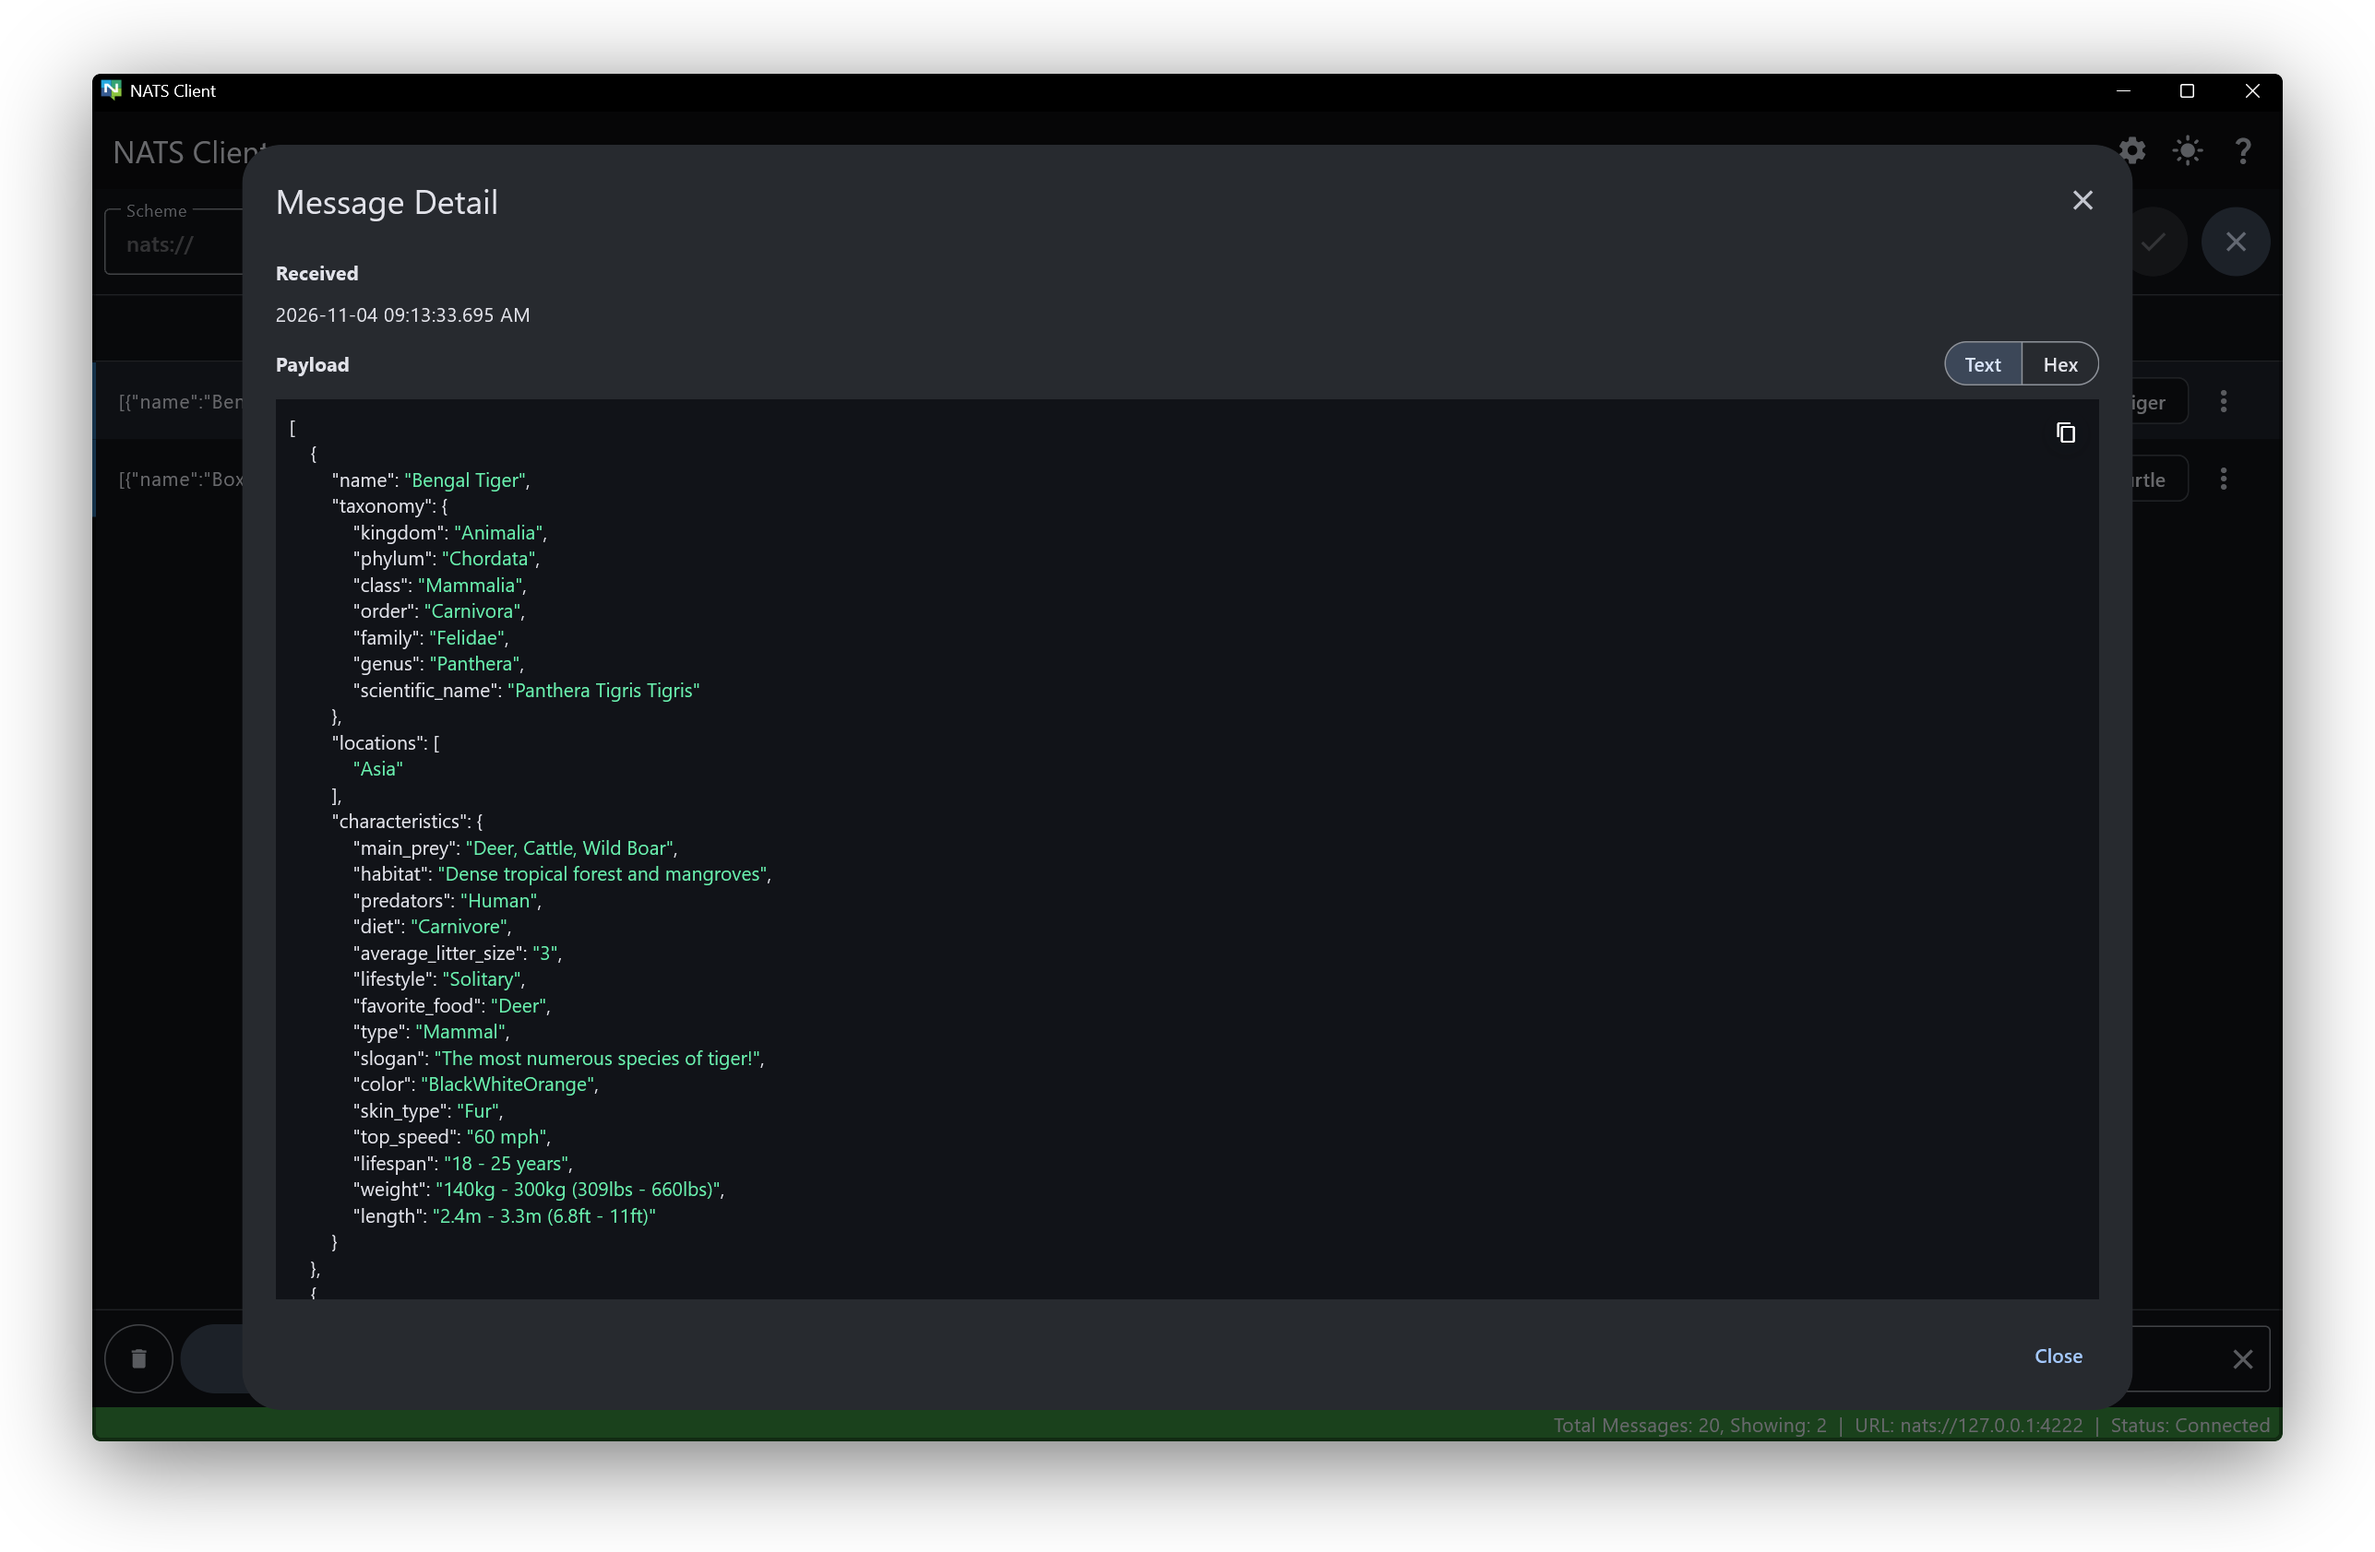
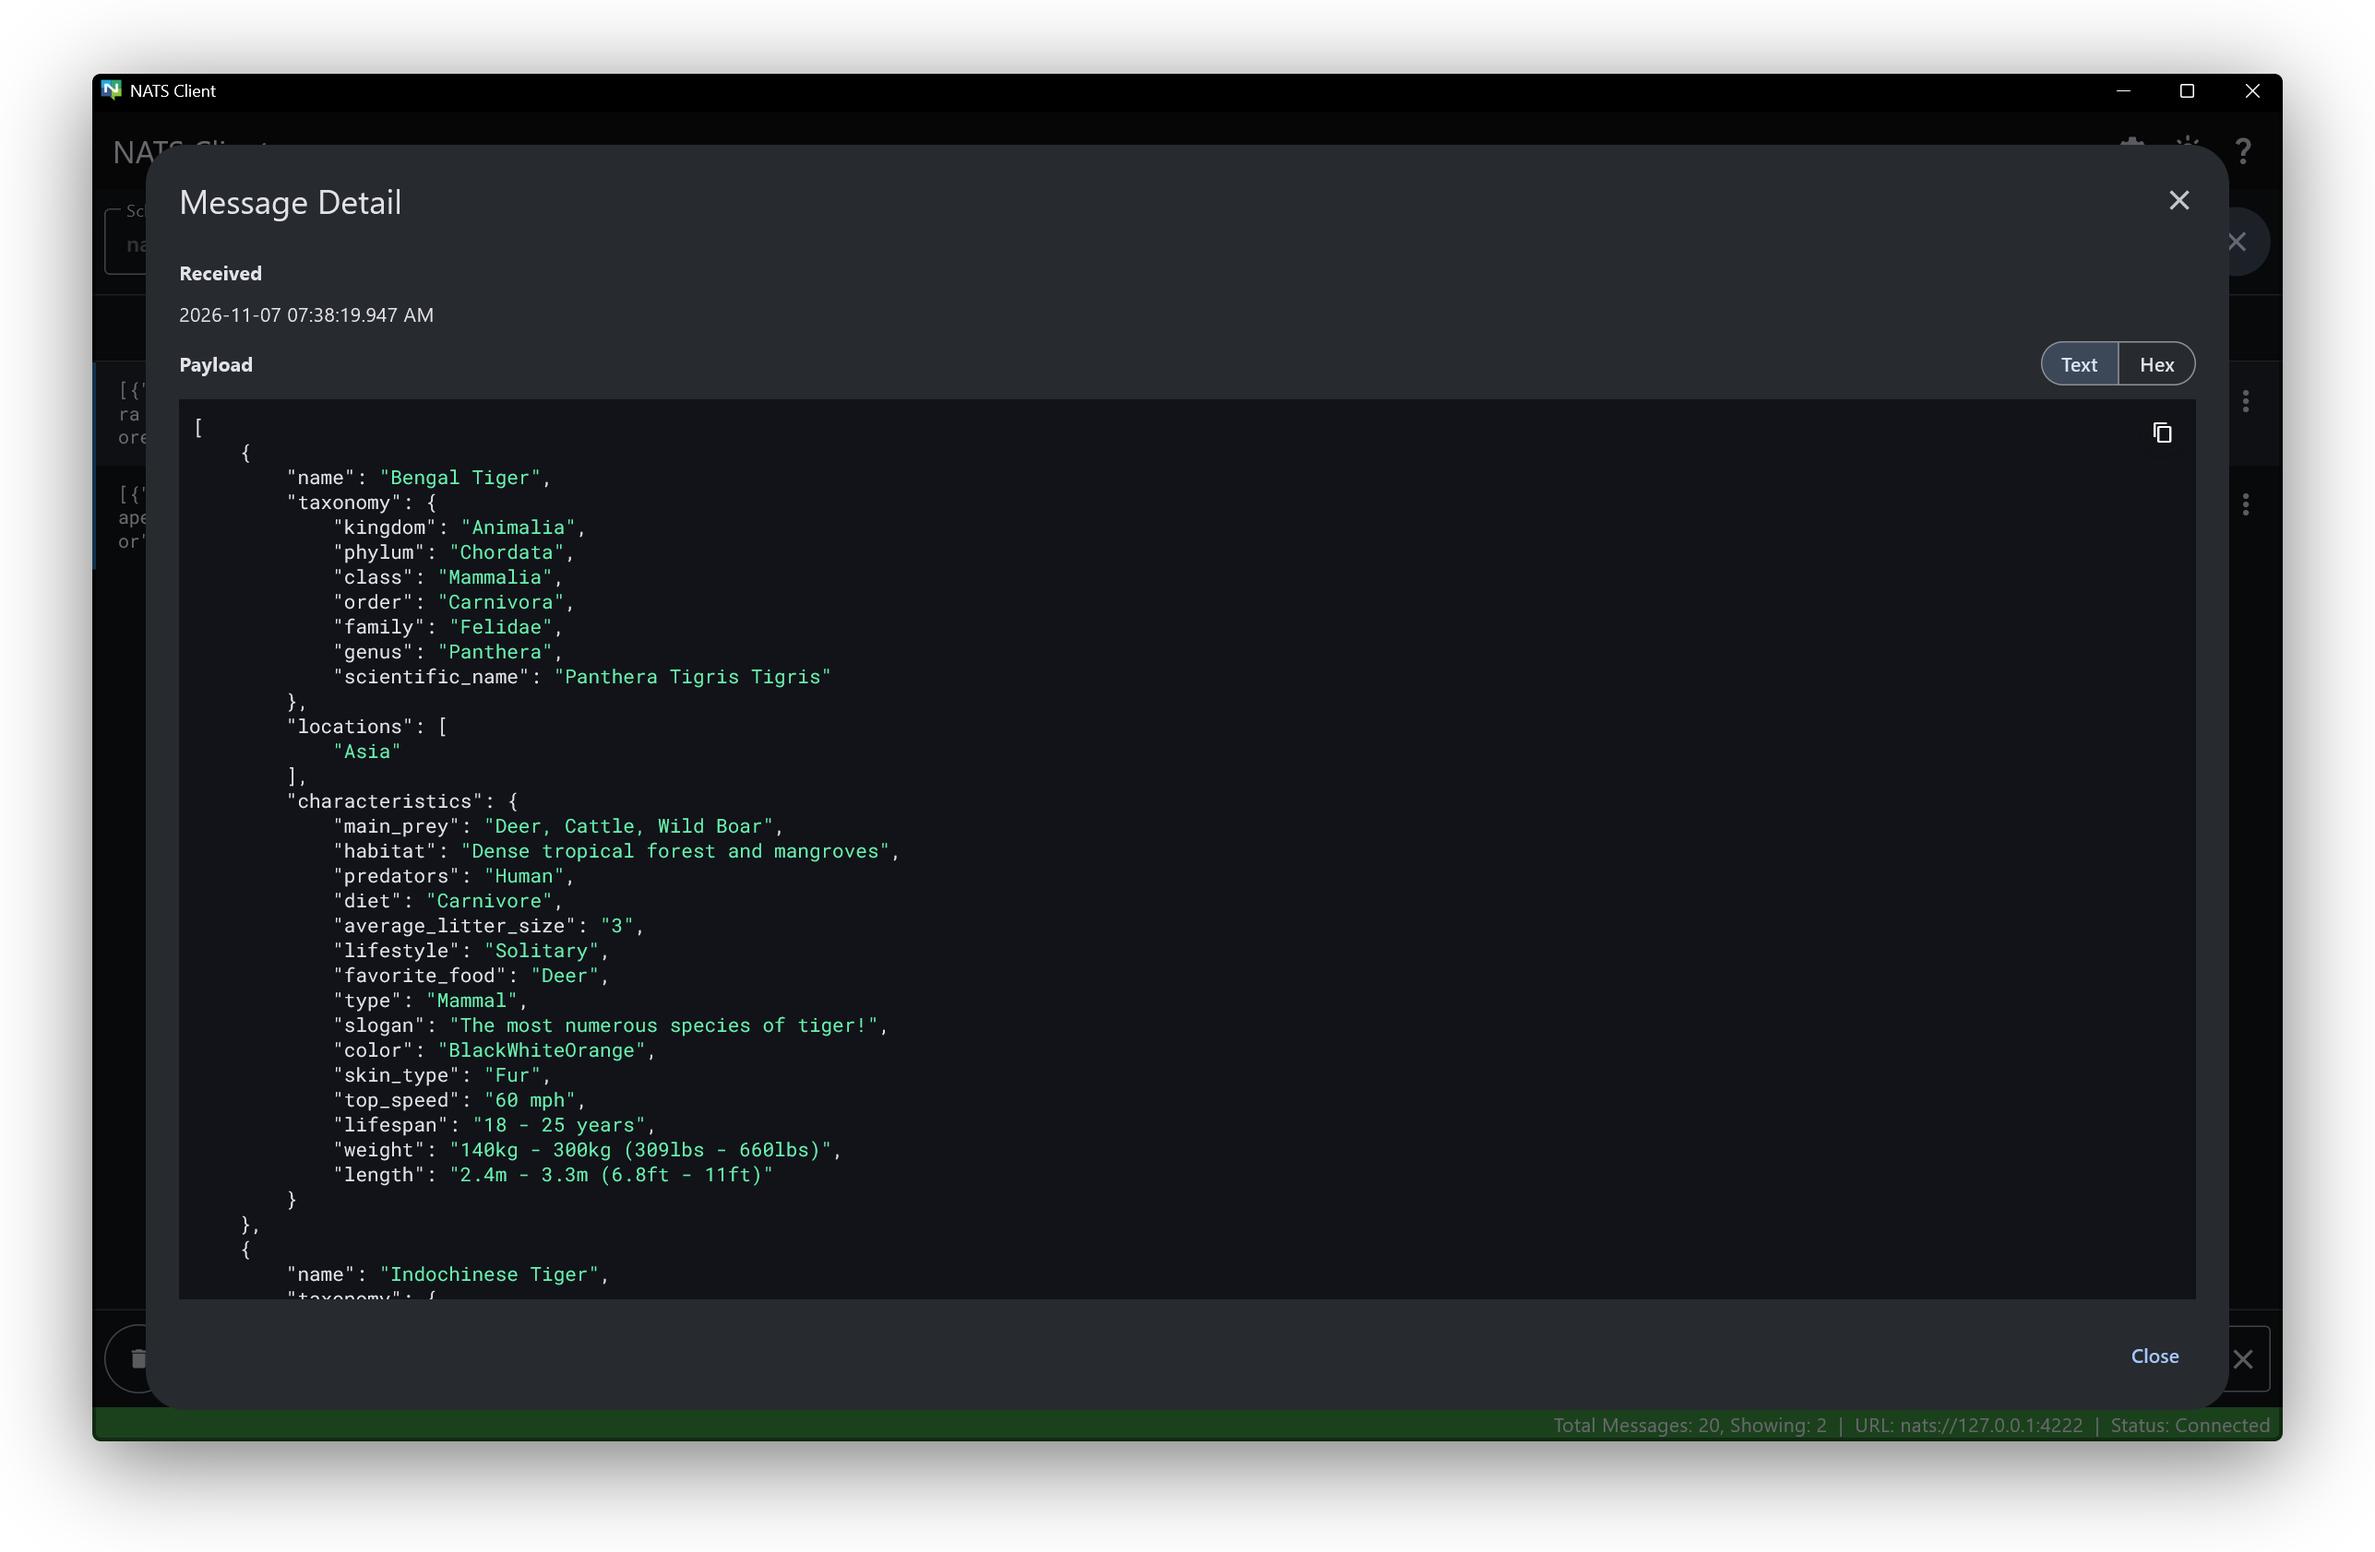
Default message font size to 13 and refresh README screenshots
Roboto Mono reads larger than proportional text at the same size, so the
default message font size is now 13 (saved sizes are kept). Browse Messages
uses the same default. The README screenshots are retaken with the new
font, and the Messages shot shows wrapped rows with pinned fields.

diff --git a/test/jetstream_message_view_test.dart b/test/jetstream_message_view_test.dart
@@ -8,6 +8,7 @@ import 'package:flutter_test/flutter_test.dart';
 import 'package:shared_preferences/shared_preferences.dart';
 
 import 'package:nats_client_flutter/jetstream_manager.dart';
+import 'package:nats_client_flutter/constants.dart' as constants;
 import 'package:nats_client_flutter/exact_extent_list.dart';
 import 'package:nats_client_flutter/jetstream_message_view.dart';
 import 'package:nats_client_flutter/live_message_row.dart';
@@ -248,7 +249,7 @@ void main() {
       expect(find.text('urgent'), findsOneWidget);
       expect(find.text('A1, B7'), findsOneWidget);
       expect(tester.getSize(find.byType(ListTile).at(1)).height,
-          messageRowExtent(4, 14));
+          messageRowExtent(4, constants.defaultMessageFontSize));
     });
 
     testWidgets('multi-line rows that arrive while scrolled away are held too',
@@ -283,8 +284,11 @@ void main() {
       await tester.pump(const Duration(milliseconds: 50));
       await tester.pump();
       expect(controller.offset, 0);
-      expect(controller.position.maxScrollExtent,
-          range + messageRowExtent(3, 14) + messageRowExtent(1, 14));
+      expect(
+          controller.position.maxScrollExtent,
+          range +
+              messageRowExtent(3, constants.defaultMessageFontSize) +
+              messageRowExtent(1, constants.defaultMessageFontSize));
     });
 
     testWidgets('Pin Fields… in the row menu reports the new pins',

diff --git a/integration_test/screenshot_tour_test.dart b/integration_test/screenshot_tour_test.dart
@@ -39,7 +39,13 @@ void main() {
     // Server tab on (it's off by default) for screenshot 7; the earlier
     // screenshots then show it in the tab bar, as a user who turned it on
     // would see.
-    await pumpConnectedApp(tester, serverMonitorEnabled: true);
+    // Wrapping and pinned fields on, so the Messages screenshot shows them:
+    // the car payloads pin their make and model; the animal payloads have
+    // neither, so their text keeps the full row.
+    await pumpConnectedApp(tester,
+        serverMonitorEnabled: true,
+        messageMaxLines: 3,
+        pinnedFields: ['make=[0].make', 'model=[0].model']);
     addTearDown(() => disconnectApp(tester));
 
     Finder fieldWithPrefixIcon(IconData icon) => find.ancestor(
@@ -56,7 +62,10 @@ void main() {
     await signaler.requestSeedMessages();
     await pumpUntil(tester,
         () => find.textContaining('Total Messages: 20,').evaluate().isNotEmpty);
-    await tester.drag(find.byType(ListView).first, const Offset(0, -800));
+    // `w is ListView` rather than `byType`: with wrapping on, the list is an
+    // ExactExtentListView (a ListView subclass).
+    await tester.drag(find.byWidgetPredicate((w) => w is ListView).first,
+        const Offset(0, -800));
     await tester.pumpAndSettle();
     await tester.tap(find.ancestor(
         of: find.byIcon(Icons.pause), matching: find.byType(FilledButton)));

diff --git a/lib/jetstream_message_view.dart b/lib/jetstream_message_view.dart
@@ -75,12 +75,13 @@ class JetStreamMessageViewState extends State<JetStreamMessageView> {
   // in `main.dart` for the full reasoning (a known extent lets
   // `_insertMessages` compensate the scroll offset exactly, and lets the
   // scrollbar/fling locate rows analytically). Constant here (rather than
-  // derived from a setting) since this view's rows always use font 14; 56px
-  // is the same floor `main.dart` applies so the row stays tall enough for
-  // the trailing controls' tap target (14 * 1.3 + 24 = 42.2 < 56).
-  // Multi-line rows get their heights from [_layout].
+  // derived from a setting) since this view's rows always use the default
+  // message font size; 56px is the same floor `main.dart` applies so the row
+  // stays tall enough for the trailing controls' tap target
+  // (13 * 1.3 + 24 = 40.9 < 56). Multi-line rows get their heights from
+  // [_layout].
   static const _messageRowExtent = 56.0;
-  static const _fontSize = 14.0;
+  static const _fontSize = constants.defaultMessageFontSize;
 
   final MessageListLayout _layout = MessageListLayout(
     subjectChipMaxWidth: 300,

diff --git a/lib/constants.dart b/lib/constants.dart
@@ -139,7 +139,8 @@ const bool defaultShowSubscriptionColors = true;
 // message list caps/display defaults
 const int defaultMaxMessages = 10000;
 const bool defaultShowTimestamps = false;
-const double defaultMessageFontSize = 14.0;
+// 13 suits Roboto Mono, which reads larger than proportional text at 14.
+const double defaultMessageFontSize = 13.0;
 const bool defaultShowSubjectChip = true;
 // 1 keeps the single-line rows; more lets long messages wrap.
 const int defaultMessageMaxLines = 1;

diff --git a/assets/app_help.md b/assets/app_help.md
@@ -9,7 +9,7 @@ The application has two themes, **light** and **dark**. The theme may be changed
 # Settings
 The application provides a settings dialog (⚙ button in the toolbar) with the following options:
 
-- **Message Font Size**: Adjusts the font size of messages in the message list. Message text uses a monospace font (Roboto Mono).
+- **Message Font Size**: Adjusts the font size of messages in the message list. Defaults to 13. Message text uses a monospace font (Roboto Mono).
 - **Show Subscription Colors**: Shows or hides the per-subscription color indicator on subject chips and Live Messages rows. On by default; turning it off doesn't lose the assigned colors, it just stops displaying them — turn it back on and each subscription shows its original color again.
 - **Reconnect Interval**: Controls the amount of time between reconnection attempts.
 - **Heartbeat Interval**: How often the app checks that the connection is still alive. A dead connection is detected after about two missed checks, so a shorter interval notices a dropped connection sooner. Applies on the next connect.
